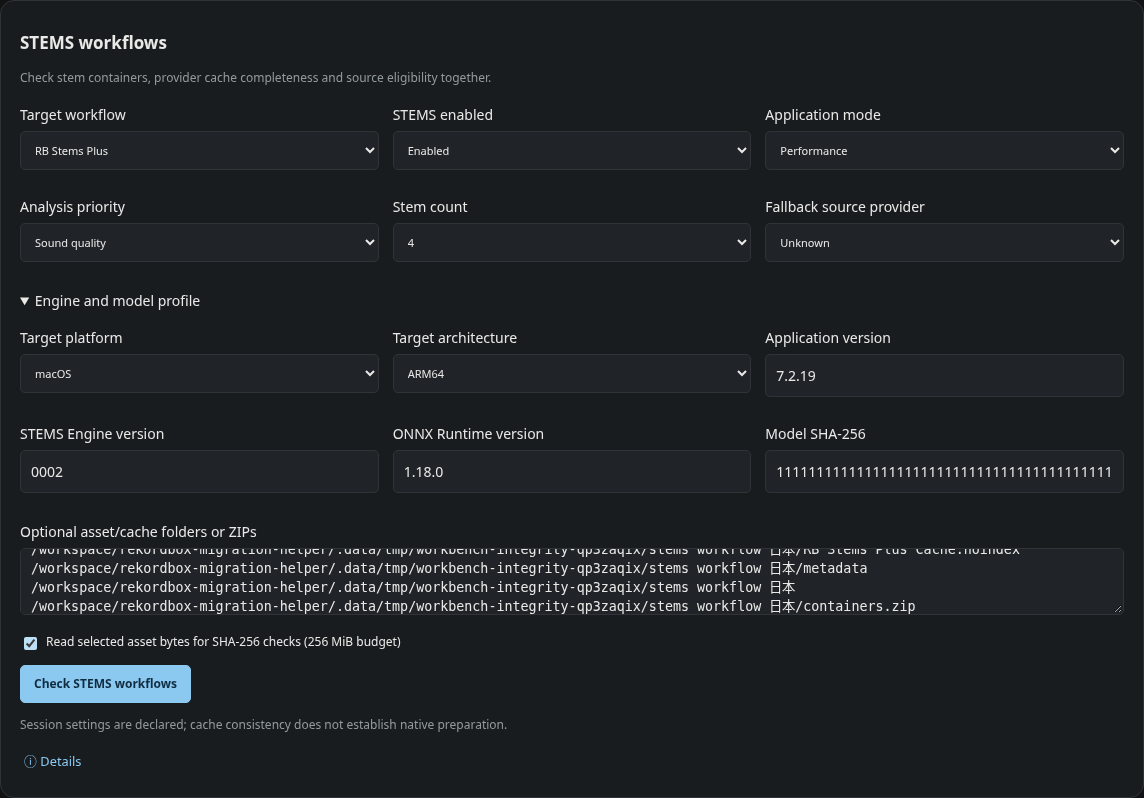
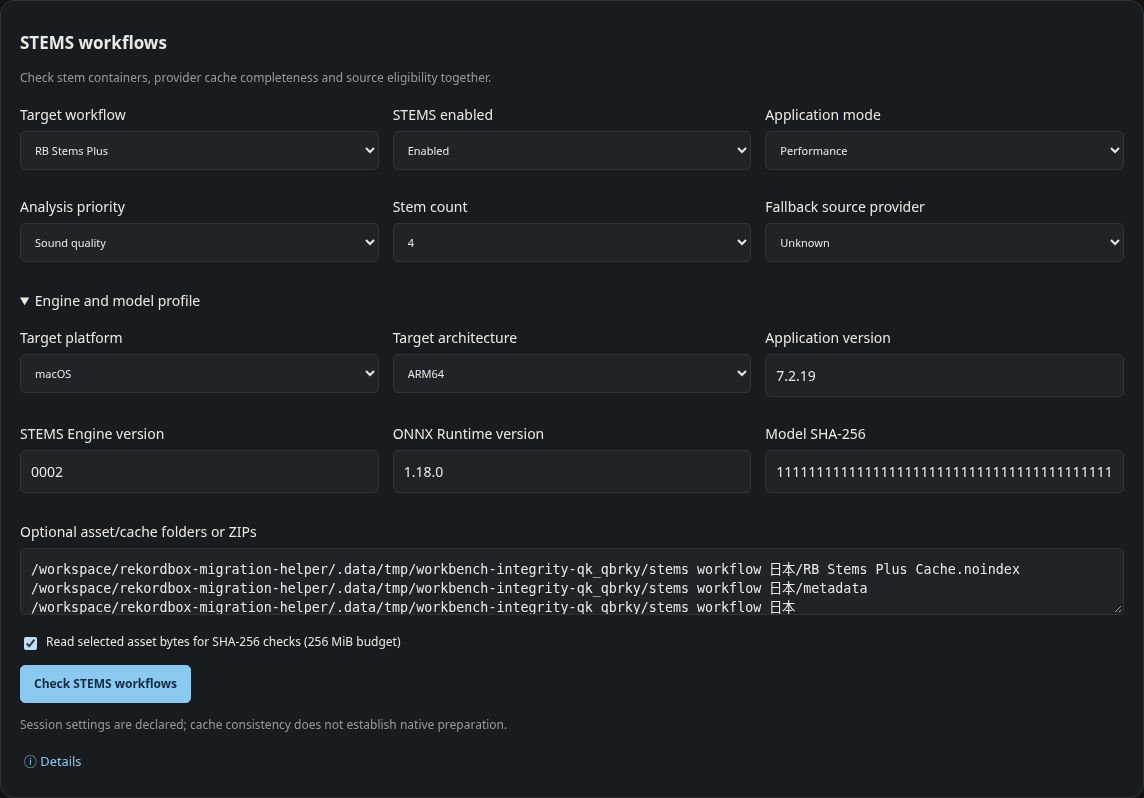
test: wait for language refresh before STEMS mobile checks

Changed region(s): [[0.0306, 0.6917, 0.8872, 0.782]]

diff --git a/packaging/check_stems_workflows_ui.py b/packaging/check_stems_workflows_ui.py
@@ -72,6 +72,7 @@ def check_stems_workflows_ui(browser,base,store,root,output):
         assert prep['cache_profile_status']=='matches_declared_profile' and prep['source_association']=='metadata_match'
         assert all(r.get('native_stems_readiness') is None for r in result['rows'])
         assert not page.locator('#lab-report-rows img').count()
+        page.locator('#lab-stems-path').evaluate('el=>{el.scrollTop=0;el.scrollLeft=0}')
         page.locator('#lab-panel-stems').screenshot(path=str(output/'stems-workflows.png'))
         filtered=apply_filter('asset_family','preparation_manifest')
         filtered=apply_filter('provider','rbstemsplus');filtered=apply_filter('cache_state','consistent')
@@ -120,8 +121,10 @@ def check_stems_workflows_ui(browser,base,store,root,output):
         messages=json.loads((Path(__file__).resolve().parents[1]/'static/locales.json').read_text())['messages']
         for language in LANGUAGES:
             page.select_option('#language',language)
+            page.wait_for_function("document.documentElement.dataset.languageBusy !== 'true'")
             expect(page.locator('[data-lab-tab="stems"]')).to_have_text(messages['STEMS workflows'].get(language,'STEMS workflows'))
         page.select_option('#language','en')
+        page.wait_for_function("document.documentElement.dataset.languageBusy !== 'true'")
         page.set_viewport_size({'width':390,'height':844})
         page.locator('#lab-stems').scroll_into_view_if_needed();expect(page.locator('#lab-stems')).to_be_in_viewport()
         assert page.evaluate('document.documentElement.scrollWidth <= innerWidth+1')

diff --git a/stems_report.py b/stems_report.py
@@ -23,7 +23,7 @@ def stems_report(snapshot,paths,session,progress,verify=False):
         def advance(value,message):progress(90+min(value,90)/10,message)
     else:
         summary={'source_writes':False,'stems':{'prepared_tracks':None,
-                 'preparation_status':'Native per-track STEMS preparation is unknown; no asset scopes were selected',
+                 'preparation_status':'Native per-track STEMS preparation is unknown; no available asset scopes were inspected',
                  'related_candidate_files':0,'related_candidate_bytes':0,'rbsc_drum_capture_files':0,
                  'note':'Eligibility advisories are separate from native preparation and cache completeness'}}
         rows=[];advance=progress

diff --git a/test_stems_workflows.py b/test_stems_workflows.py
@@ -141,6 +141,9 @@ class ScopeTests(unittest.TestCase):
         empty=self.root/'empty';empty.mkdir()
         summary,_=stems_report({},[str(empty)],{},lambda *_:None)
         self.assertEqual(summary['format_inspection']['files'],0)
+        summary,rows=stems_report({},[str(self.root/'disconnected')],{},lambda *_:None)
+        self.assertEqual(summary['unavailable_scopes'],1);self.assertEqual(rows[0]['cache_state'],'unavailable')
+        self.assertIsNone(summary['stems']['prepared_tracks'])
         for paths in (['relative/cache'],[str(empty)]*21,[42]):
             with self.assertRaises(ValueError):stems_report({},paths,{},lambda *_:None)
 
